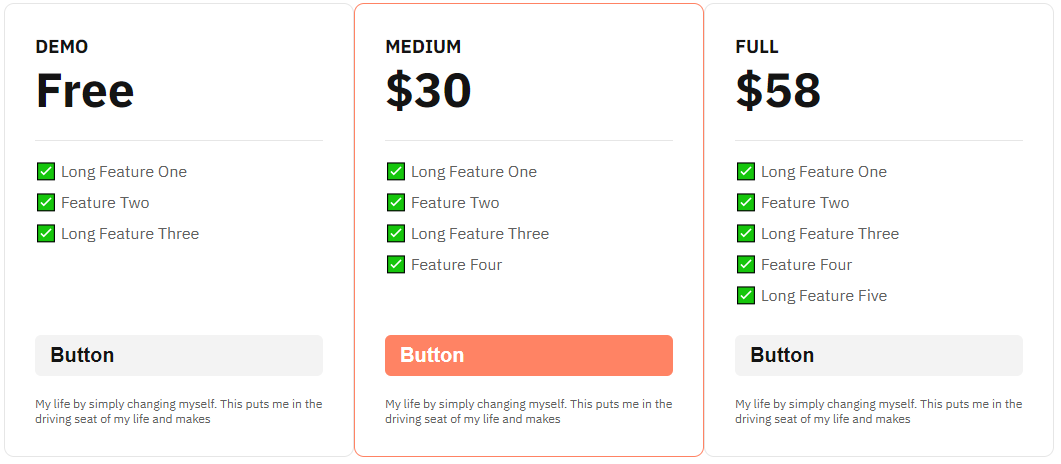
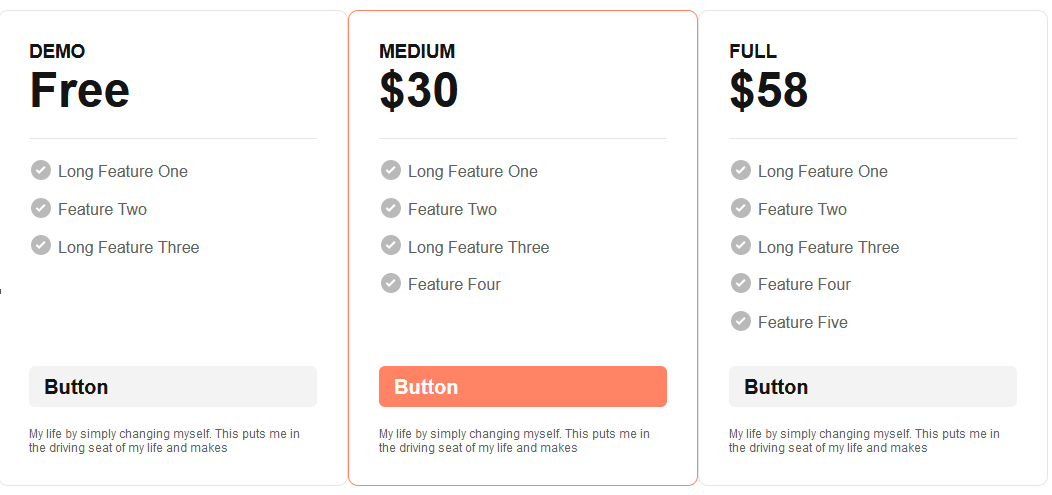
fix images in 2 components

diff --git a/1. Columns Flexbox/style.css b/1. Columns Flexbox/style.css
@@ -1,4 +1,3 @@
-@charset "UTF-8";
 ul {
   padding: 0;
 }
@@ -100,12 +99,15 @@ img {
 
 .pricing__features-item {
   margin-bottom: 10px;
+  display: flex;
+  align-items: center;
 }
 .pricing__features-item:last-child {
   margin-bottom: 0;
 }
 .pricing__features-item:before {
-  content: "✅";
+  content: url("star.svg");
+  margin-right: 5px;
 }
 
 .pricing__button {

diff --git a/1. Columns Flexbox/style.scss b/1. Columns Flexbox/style.scss
@@ -113,13 +113,16 @@ img {
 
 .pricing__features-item {
     margin-bottom: 10px;
+    display: flex;
+    align-items: center;
 
     &:last-child {
         margin-bottom: 0;
     }
     
     &:before {
-        content: '✅';
+        content: url('star.svg');
+        margin-right: 5px;
     }
 }
 

diff --git a/2. Different columns flexbox/style.css b/2. Different columns flexbox/style.css
@@ -1,4 +1,3 @@
-@charset "UTF-8";
 body {
   background-color: #f9fafb;
 }
@@ -128,6 +127,6 @@ h2 {
   margin-bottom: 20px;
 }
 .pricing__features-item:before {
-  content: "✅";
+  content: url("img/check.svg");
   margin-right: 10px;
 }

diff --git a/2. Different columns flexbox/style.scss b/2. Different columns flexbox/style.scss
@@ -151,7 +151,7 @@ h2 {
     }
 
     &:before {
-        content: '✅';
+        content: url('img/check.svg');
         margin-right: 10px;
     }
 }
